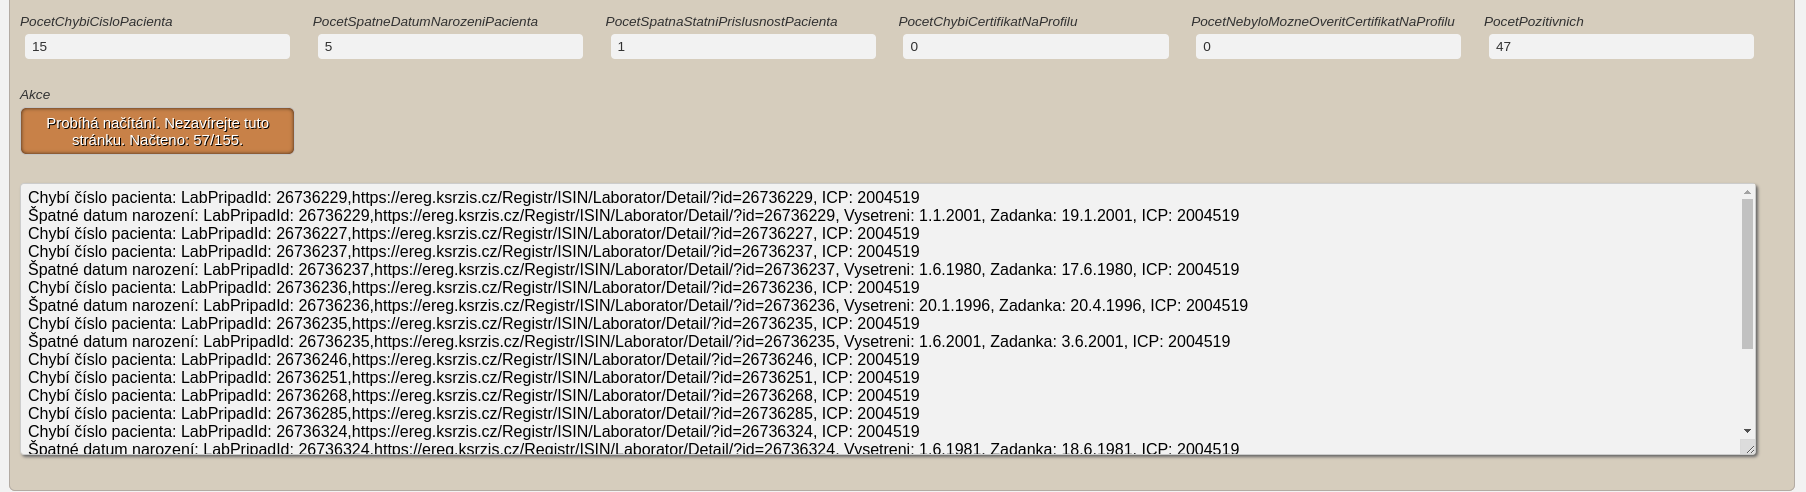
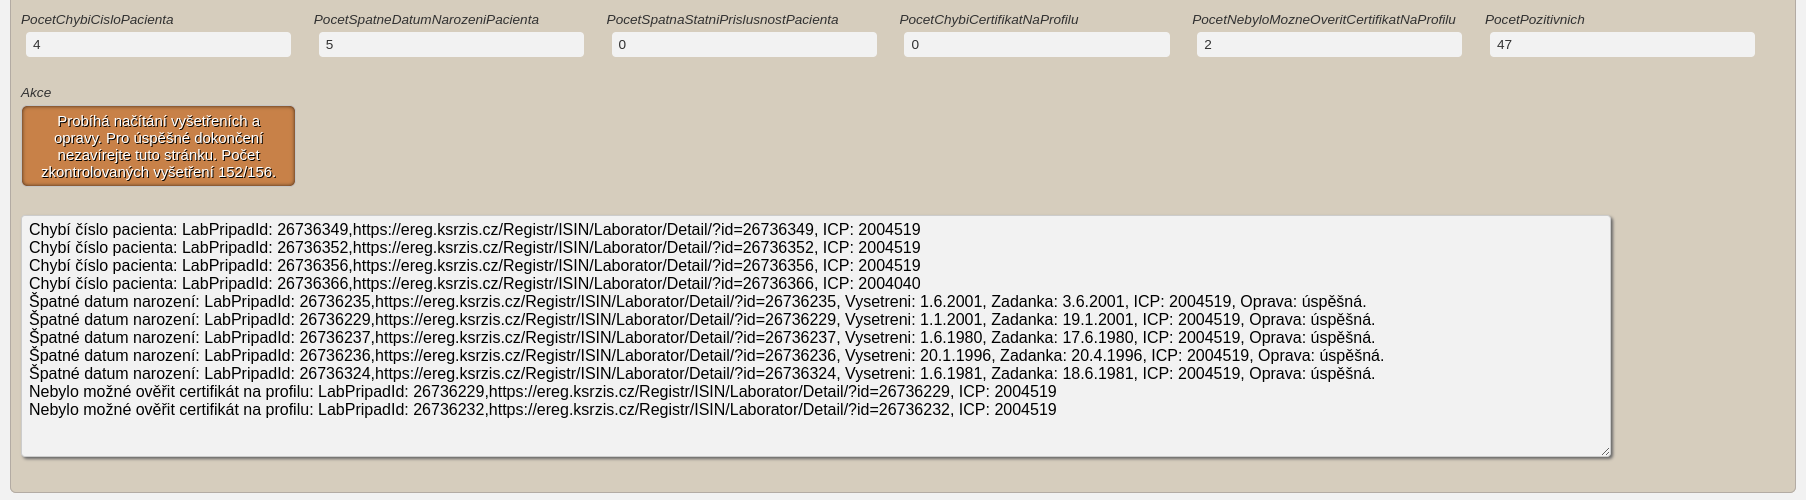
Init auto fixing (datumNarozeni and stat)

diff --git a/content/content.js b/content/content.js
@@ -247,12 +247,17 @@ function getHtmlLaboratorDetail(url, callback) {
     });
 }
 
-/*function getRegistrISINLaboratorUpravitUrlParams(DatumNarozeni, RequestVerificationTokenElement) {
+function getRegistrISINLaboratorUpravitUrlParams(DatumNarozeni, Stat, RequestVerificationTokenElement) {
     var urlParams = new URLSearchParams();
-    urlParams.set("DatumNarozeni", DatumNarozeni);
-    urlParams.set("__RequestVerificationToken", RequestVerificationTokenElement)
+    if(DatumNarozeni) {
+        urlParams.set("LabUdaje.DatumNarozeni", DatumNarozeni);
+    }
+    if(Stat) {
+        urlParams.set("LabUdaje.Stat", Stat);
+    }
+    urlParams.set("__RequestVerificationToken", RequestVerificationTokenElement);
     return urlParams;
-}*/
+}
 
 function addToConsole(text) {
     var ConsoleElement = document.getElementById(CONSOLE);
@@ -406,7 +411,7 @@ function getPocetChybiCisloPacientaButton() {
     var aElement = document.createElement("a");
     aElement.setAttribute("class", "button-action ui-button ui-corner-all ui-widget");
     aElement.setAttribute("role", "button");
-    aElement.innerText = "Načti";
+    aElement.innerText = "Načti a oprav";
     aElement.addEventListener('click', function() {
 
         var vysetreniDetailsIndex = 0;
@@ -426,8 +431,8 @@ function getPocetChybiCisloPacientaButton() {
         var PocetPozitivnichTextElement = document.getElementById(POCET_POZITIVNICH);
         PocetPozitivnichTextElement.innerText = 0;
 
-        aElement.innerText = "Probíhá načítání. Nezavírejte tuto stránku. Dokončeno: " + vysetreniDetailsIndex + "/" + vysetreniDetailsAElements.length + ".";
-        alert("Bude probíhat načítání všech vyšetření bez Čísla pacienta. Pro úspěšné dokončení načítání neopouštějte tuto stránku.");
+        aElement.innerText = "Probíhá načítání vyšetřeních a opravy. Pro úspěšné dokončení nezavírejte tuto stránku. Počet zkontrolovaných vyšetření: " + vysetreniDetailsIndex + "/" + vysetreniDetailsAElements.length + ".";
+        alert("Bude probíhat načítání všech vyšetření a také automatické opravy.");
 
         vysetreniDetailsAElements.forEach(function (element) {
 
@@ -435,9 +440,9 @@ function getPocetChybiCisloPacientaButton() {
 
             // only testing purpose
             /*const element = {
-                href: "/Registr/ISIN/Laborator/Detail/?id=26736242"
+                href: "/Registr/ISIN/Laborator/Detail/?id=26736356"
             }
-            const LabPripadId = "26736242"; // češka negativní */
+            const LabPripadId = "26736356";*/
 
             getHtmlLaboratorDetail(element.href, function(html) {
                 var results = getInfoFromHtmlLaboratorDetail(html);
@@ -474,10 +479,10 @@ function getPocetChybiCisloPacientaButton() {
 
                                     // end condition here, because is slowest request (last finished)
                                     vysetreniDetailsIndex++;
-                                    aElement.innerText = "Probíhá načítání. Nezavírejte tuto stránku. Načteno: " + vysetreniDetailsIndex + "/" + vysetreniDetailsAElements.length + ".";
-                                  
+                                    aElement.innerText = "Probíhá načítání vyšetřeních a opravy. Pro úspěšné dokončení nezavírejte tuto stránku. Počet zkontrolovaných vyšetření: " + vysetreniDetailsIndex + "/" + vysetreniDetailsAElements.length + ".";
+
                                     if(vysetreniDetailsIndex == vysetreniDetailsAElements.length) {
-                                        aElement.innerText = "Načti znovu";
+                                        aElement.innerText = "Znovu načti a oprav";
                                         alert("Načítání dokončeno.");
                                     }
                                 });
@@ -486,10 +491,10 @@ function getPocetChybiCisloPacientaButton() {
 
                                 // end condition here, because is slowest request (last finished)
                                 vysetreniDetailsIndex++;
-                                aElement.innerText = "Probíhá načítání. Nezavírejte tuto stránku. Načteno: " + vysetreniDetailsIndex + "/" + vysetreniDetailsAElements.length + ".";
-                                                                  
+                                aElement.innerText = "Probíhá načítání vyšetřeních a opravy. Pro úspěšné dokončení nezavírejte tuto stránku. Počet zkontrolovaných vyšetření: " + vysetreniDetailsIndex + "/" + vysetreniDetailsAElements.length + ".";
+
                                 if(vysetreniDetailsIndex == vysetreniDetailsAElements.length) {
-                                    aElement.innerText = "Načti znovu";
+                                    aElement.innerText = "Znovu načti a oprav";
                                     alert("Načítání dokončeno.");
                                 }
                             }
@@ -499,10 +504,10 @@ function getPocetChybiCisloPacientaButton() {
 
                             // end condition here, because is slowest request (last finished)
                             vysetreniDetailsIndex++;
-                            aElement.innerText = "Probíhá načítání. Nezavírejte tuto stránku. Načteno: " + vysetreniDetailsIndex + "/" + vysetreniDetailsAElements.length + ".";
-                                                                                              
+                            aElement.innerText = "Probíhá načítání vyšetřeních a opravy. Pro úspěšné dokončení nezavírejte tuto stránku. Počet zkontrolovaných vyšetření: " + vysetreniDetailsIndex + "/" + vysetreniDetailsAElements.length + ".";
+
                             if(vysetreniDetailsIndex == vysetreniDetailsAElements.length) {
-                                aElement.innerText = "Načti znovu";
+                                aElement.innerText = "Znovu načti a oprav";
                                 alert("Načítání dokončeno.");
                             }
                         }
@@ -510,13 +515,27 @@ function getPocetChybiCisloPacientaButton() {
                         if(results.Stat.split("-")[0].trim() != zadankaData.TestovanyNarodnostKod) {
 
                             PocetSpatnaStatniPrislusnostTextElement.innerText = parseInt(PocetSpatnaStatniPrislusnostTextElement.innerText) + 1;
-                            addToConsole("Špatná státní příslušnost: LabPripadId: " + LabPripadId + "," + element.href + ", Vysetreni: " + results.Stat.split("-")[0].trim() + ", Zadanka: " + zadankaData.TestovanyNarodnostKod + ", ICP: " + results.ICP);
+
+                            editVysetreni(results.EditLink, null, zadankaData.TestovanyNarodnostKod, function(result) {
+                                if(result) {
+                                    addToConsole("Špatná státní příslušnost: LabPripadId: " + LabPripadId + "," + element.href + ", Vysetreni: " + results.Stat.split("-")[0].trim() + ", Zadanka: " + zadankaData.TestovanyNarodnostKod + ", ICP: " + results.ICP + ", Oprava: úspěšná.");
+                                } else {
+                                    addToConsole("Špatná státní příslušnost: LabPripadId: " + LabPripadId + "," + element.href + ", Vysetreni: " + results.Stat.split("-")[0].trim() + ", Zadanka: " + zadankaData.TestovanyNarodnostKod + ", ICP: " + results.ICP + ", Oprava: neúspěšná.");
+                                }
+                            });
                         }
 
                         if(results.DatumNarozeni.replaceAll(" ", "") != zadankaData.TestovanyDatumNarozeniText) {
 
                             PocetSpatneDatumNarozeniPacientaTextElement.innerText = parseInt(PocetSpatneDatumNarozeniPacientaTextElement.innerText) + 1;
-                            addToConsole("Špatné datum narození: LabPripadId: " + LabPripadId + "," + element.href + ", Vysetreni: " + results.DatumNarozeni.replaceAll(" ", "") + ", Zadanka: " + zadankaData.TestovanyDatumNarozeniText.replaceAll(" ", "") + ", ICP: " + results.ICP);
+
+                            editVysetreni(results.EditLink, zadankaData.TestovanyDatumNarozeniText, null, function(result) {
+                                if(result) {
+                                    addToConsole("Špatné datum narození: LabPripadId: " + LabPripadId + "," + element.href + ", Vysetreni: " + results.DatumNarozeni.replaceAll(" ", "") + ", Zadanka: " + zadankaData.TestovanyDatumNarozeniText.replaceAll(" ", "") + ", ICP: " + results.ICP + ", Oprava: úspěšná.");
+                                } else {
+                                    addToConsole("Špatné datum narození: LabPripadId: " + LabPripadId + "," + element.href + ", Vysetreni: " + results.DatumNarozeni.replaceAll(" ", "") + ", Zadanka: " + zadankaData.TestovanyDatumNarozeniText.replaceAll(" ", "") + ", ICP: " + results.ICP + ", Oprava: neúspěšná.");
+                                }
+                            });
                         }
                     }
                 });
@@ -532,6 +551,52 @@ function getPocetChybiCisloPacientaButton() {
     fieldGraphicElement.appendChild(aElement);
 
     return fieldGraphicElement;
+}
+
+function editVysetreni(url, DatumNarozeni, Stat, callback) {
+    fetch(url, {
+        method: 'get'
+    })
+    .then(function(response) {
+        if (response.status == 200) {
+            response.text().then(function(text) {
+                var parser = new DOMParser();
+                var responseDocument = parser.parseFromString(text, "text/html");
+                var requestVerificationTokenElement = responseDocument.querySelector("[name*='RequestVerificationToken']");
+
+                if(!requestVerificationTokenElement) {
+                    callback(false);
+                }
+                var urlParams = getRegistrISINLaboratorUpravitUrlParams(
+                    DatumNarozeni,
+                    Stat,
+                    requestVerificationTokenElement.value
+                );
+                fetch(url + "?" + urlParams.toString(), {
+                    method: 'post',
+                    headers: {
+                        'Content-Type': 'application/x-www-form-urlencoded'
+                    },
+                    body: urlParams.toString()
+                })
+                .then(function (response) {
+                    if(response.status == 200) {
+                        callback(true);
+                    } else {
+                        callback(false);
+                    }
+                })
+                .catch(function (error) {
+                    console.log(error);
+                });
+            });
+        } else {
+            return;
+        }
+    })
+    .catch(function (error) {
+        console.log(error);
+    });
 }
 
 function isFoundCertificateOnProfile(ZadankaData, CisloPacienta, KoloOprav) {

diff --git a/Readme.md b/Readme.md
@@ -10,3 +10,8 @@ Osobní informace pacientů podmíněné přihlášením do modulu [Pacienti COV
 
 - je nutné být přihlášen do modulu Covid-19 s rolí Vakcinace
 - je nutné být přihlášen do registru Žádanky Covid-19
+
+# Automaticky prováděné opravy
+
+- vložení datumu narození do vyšetření ze žádanky
+- vložení státní příslušnosti do vyšetření ze žádance
